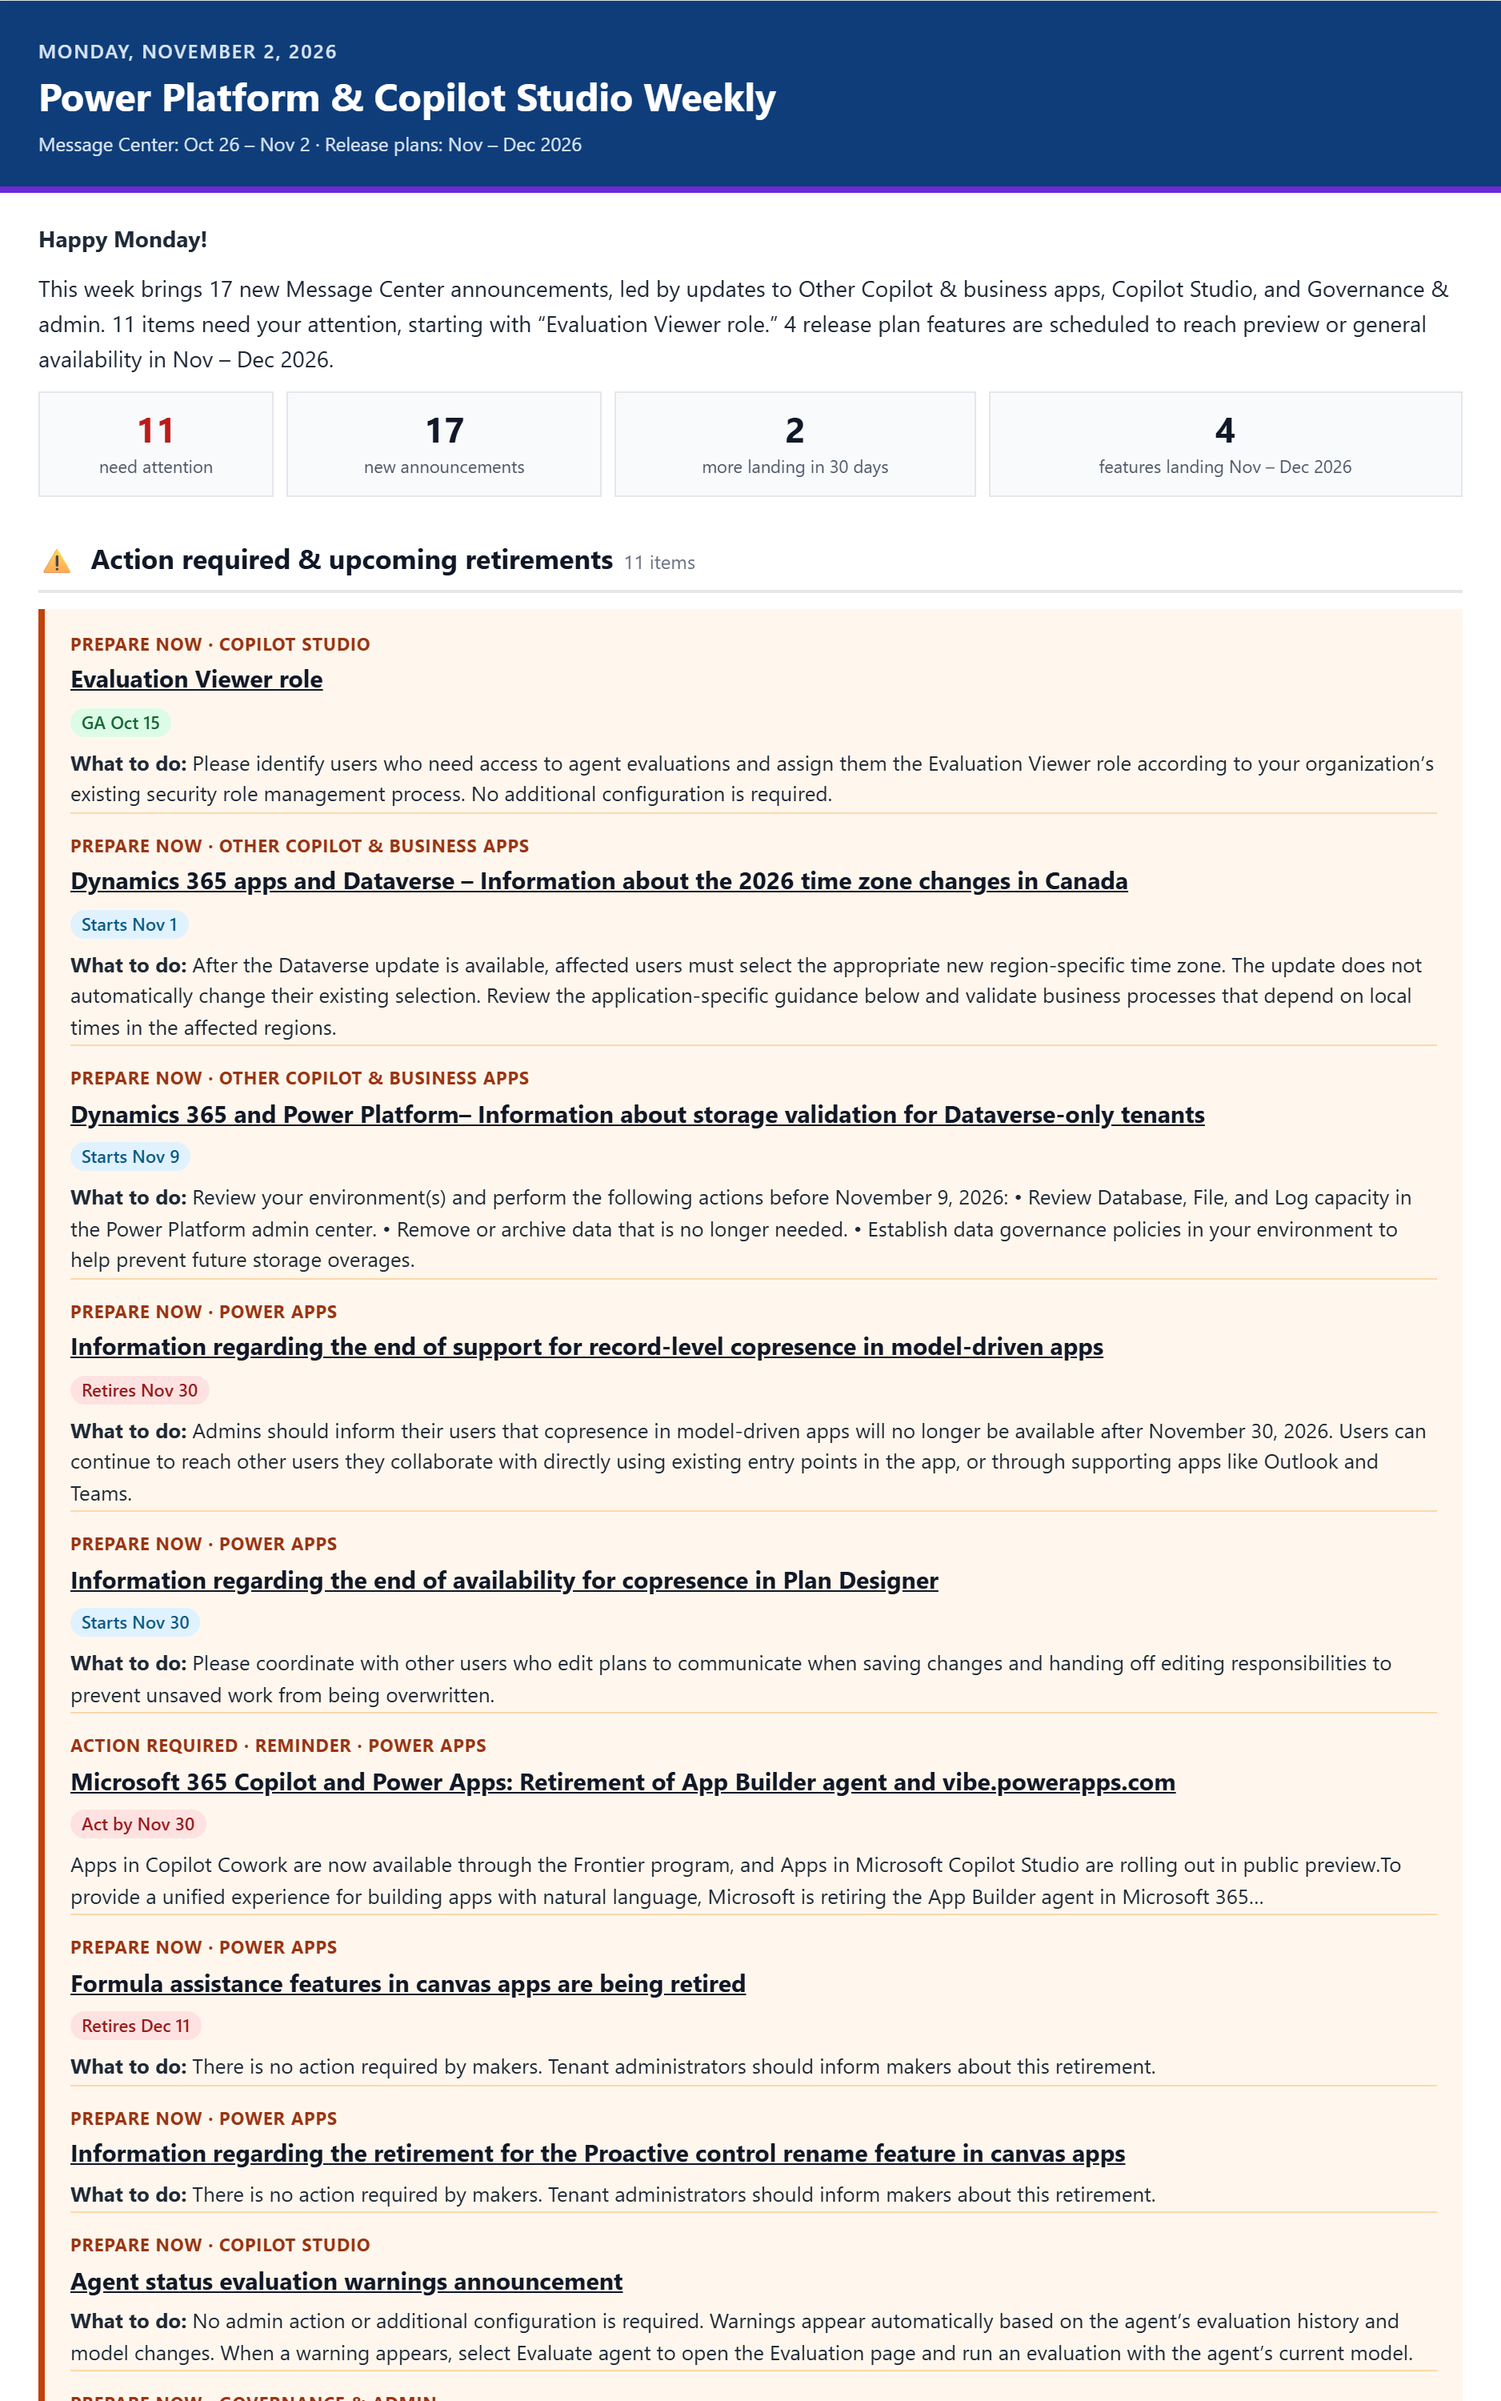
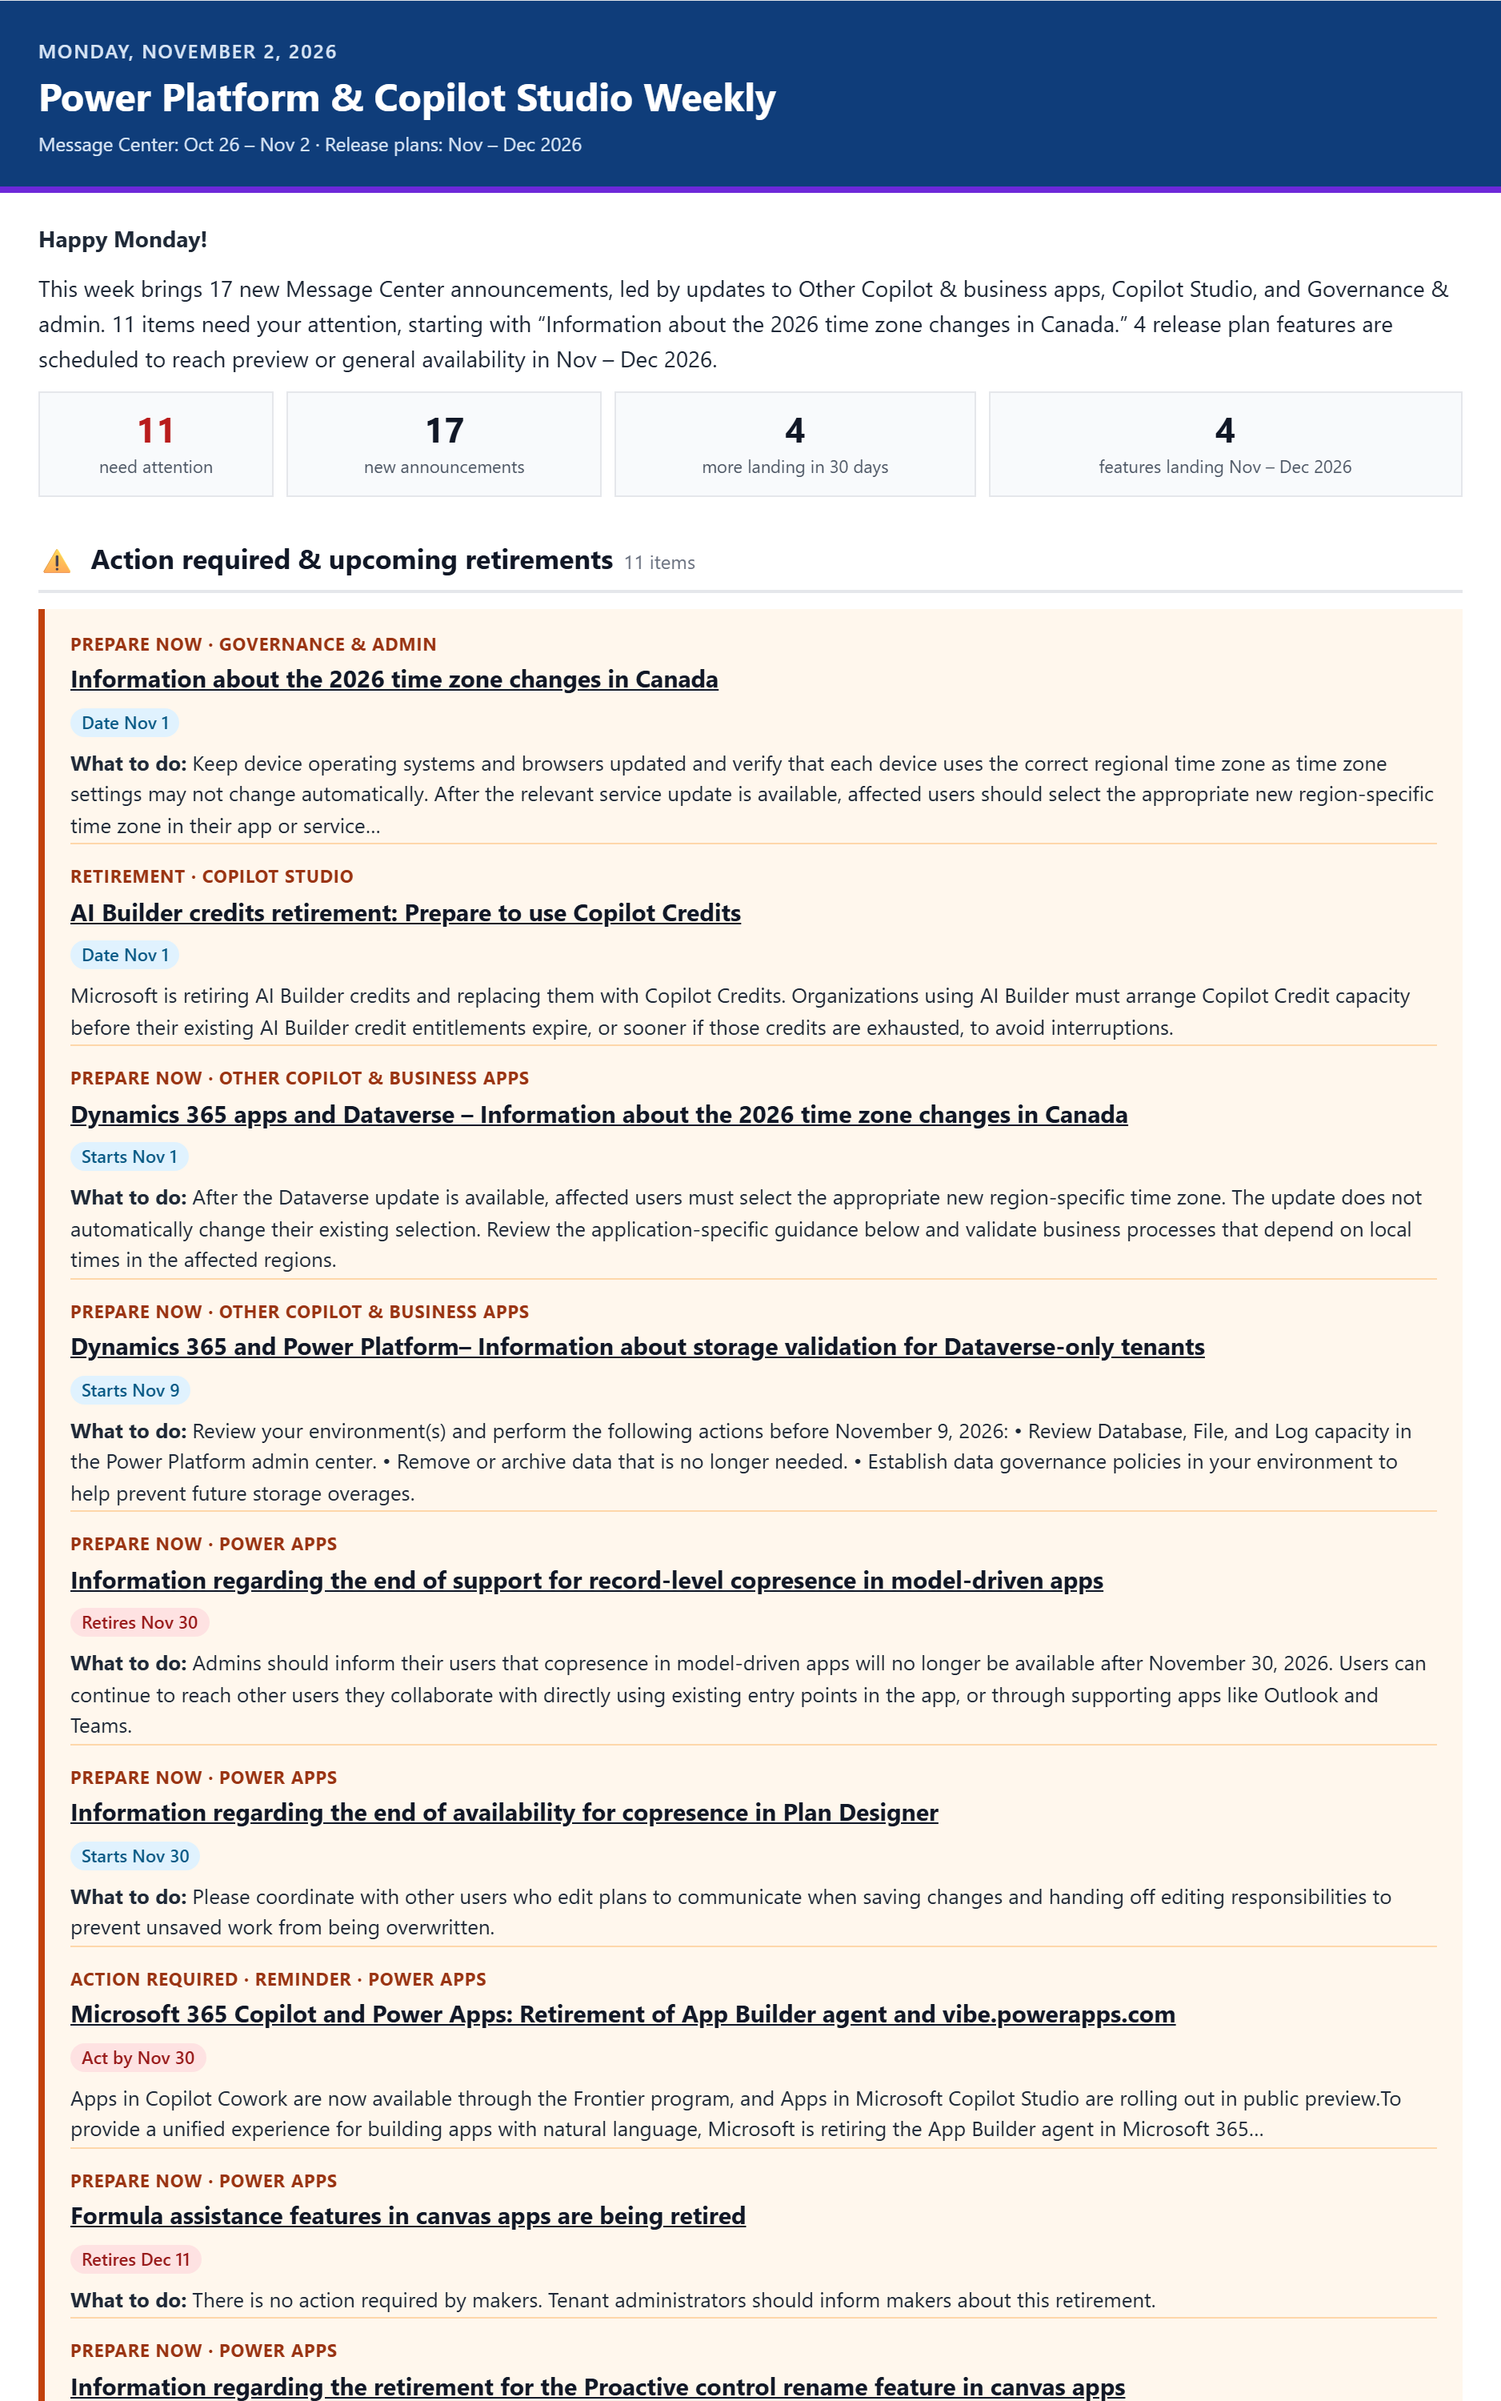
Ignore stale GA dates and find the next date for posts without a known pattern

diff --git a/scripts/test-briefing.js b/scripts/test-briefing.js
@@ -246,6 +246,22 @@ test('message scope, routine detection, and retirements', () => {
   assert.equal(versioned.cleanTitle, 'End of support for the GPT-5.5 Chat model');
 });
 
+test('key dates ignore history from before the post and fall back to the first date that follows', () => {
+  const { BM } = loadBrowserModules();
+  const stale = BM.parseMessage({
+    id: 'MC10', title: 'Copilot Studio - Evaluation Viewer role', services: ['Microsoft Copilot (Power Platform)'],
+    startDateTime: '2026-10-30T10:00:00Z',
+    body: { content: 'This feature reached general availability on October 15, 2026.' },
+  });
+  assert.deepEqual(plain(stale.keyDates), []);
+  const fallback = BM.parseMessage({
+    id: 'MC11', title: 'Copilot Studio - Cost controls', services: ['Microsoft Copilot (Power Platform)'],
+    startDateTime: '2026-10-29T10:00:00Z',
+    body: { content: 'Starting in October 2026 and again on November 20, 2026 admins see changes. Earlier, on October 15, 2026, a preview began.' },
+  });
+  assert.deepEqual(plain(fallback.keyDates.map(d => [d.label, d.date])), [['Date', '2026-11-20']]);
+});
+
 test('upcomingMessages keeps older posts landing in the window and de-duplicates re-issued titles', () => {
   const { BM } = loadBrowserModules();
   const mk = (id, title, keyDates, extra) => Object.assign({

diff --git a/static/briefing-model.js b/static/briefing-model.js
@@ -246,8 +246,11 @@
 
   function extractKeyDates(text, msg, isRetirement) {
     var found = [];
+    var publishedIso = String(msg.startDateTime || '').slice(0, 10);
     function add(label, iso) {
       if (!iso) return;
+      // Dates before the post existed describe history, not what's coming.
+      if (publishedIso && iso < publishedIso) return;
       for (var i = 0; i < found.length; i++) {
         if (found[i].date === iso) return;
       }
@@ -269,6 +272,19 @@
       var m = p.re.exec(text);
       if (m) add(p.label, parseDatePhrase(m[1]));
     });
+    // Posts whose wording doesn't match a known pattern still often name the
+    // date that matters. Use the earliest date on or after the post's own
+    // publish date, so earlier history ("GA'd on October 15") isn't promoted.
+    if (!found.length) {
+      var all = new RegExp(DATE_PHRASE, 'gi');
+      var hit;
+      var earliest = '';
+      while ((hit = all.exec(text))) {
+        var iso = parseDatePhrase(hit[1]);
+        if (iso && iso >= publishedIso && (!earliest || iso < earliest)) earliest = iso;
+      }
+      add('Date', earliest);
+    }
     found.sort(function (a, b) { return a.date < b.date ? -1 : a.date > b.date ? 1 : 0; });
     return found.slice(0, 3);
   }

diff --git a/static/briefing-email.js b/static/briefing-email.js
@@ -40,6 +40,7 @@
     Preview: { bg: '#ede9fe', fg: '#5b21b6' },
     Rollout: { bg: '#e0f2fe', fg: '#075985' },
     Starts: { bg: '#e0f2fe', fg: '#075985' },
+    Date: { bg: '#e0f2fe', fg: '#075985' },
     NEW: { bg: '#dcfce7', fg: '#166534' },
     MOVED: { bg: '#fef3c7', fg: '#92400e' },
     Updated: { bg: '#fef3c7', fg: '#92400e' },
